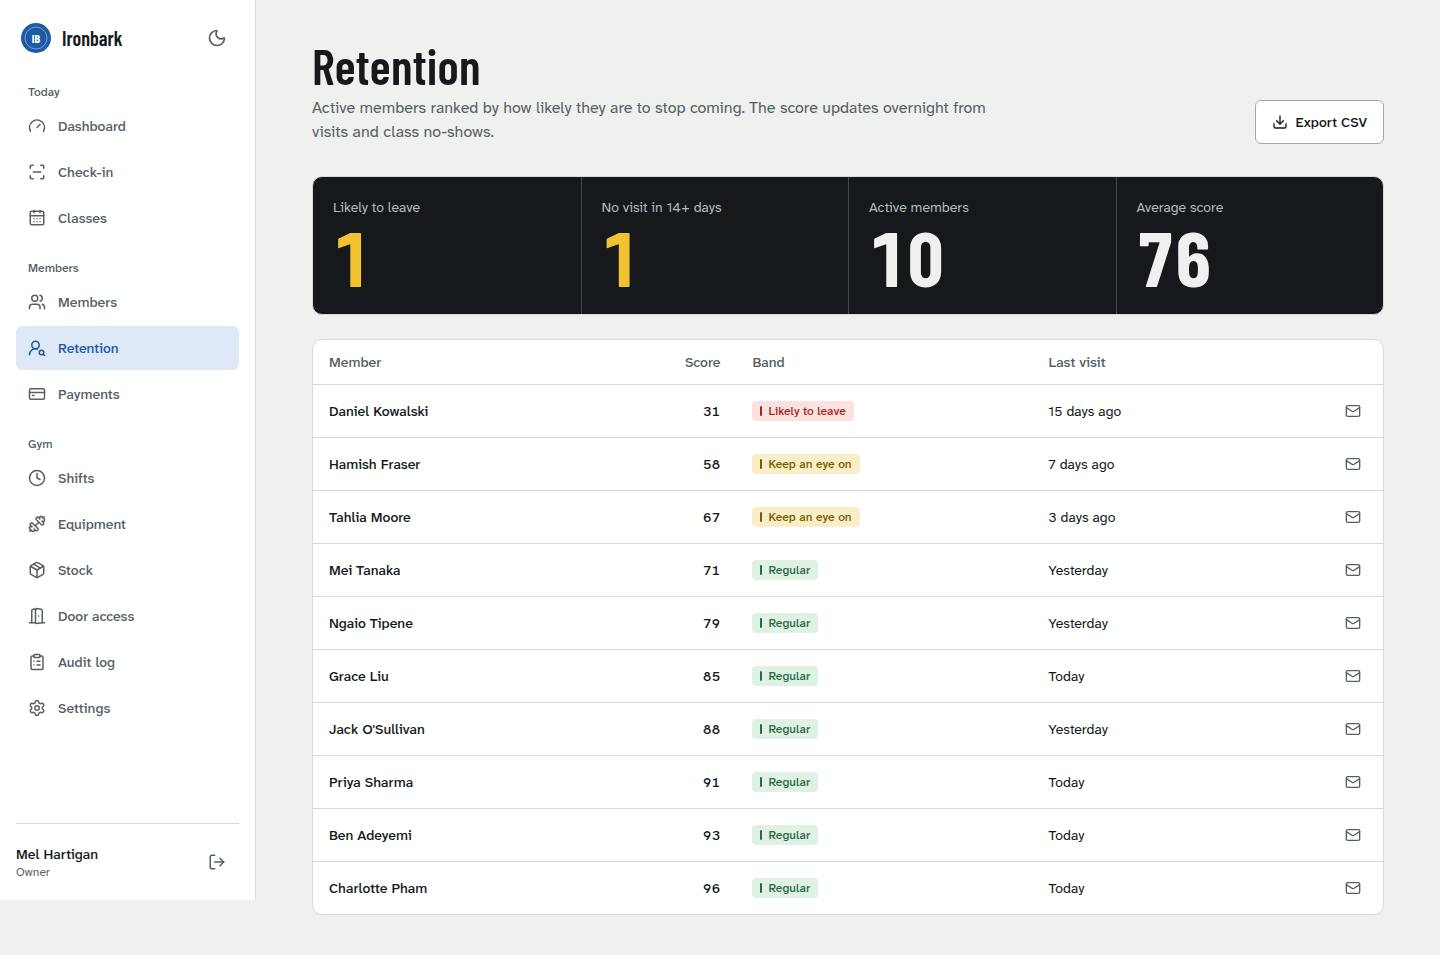
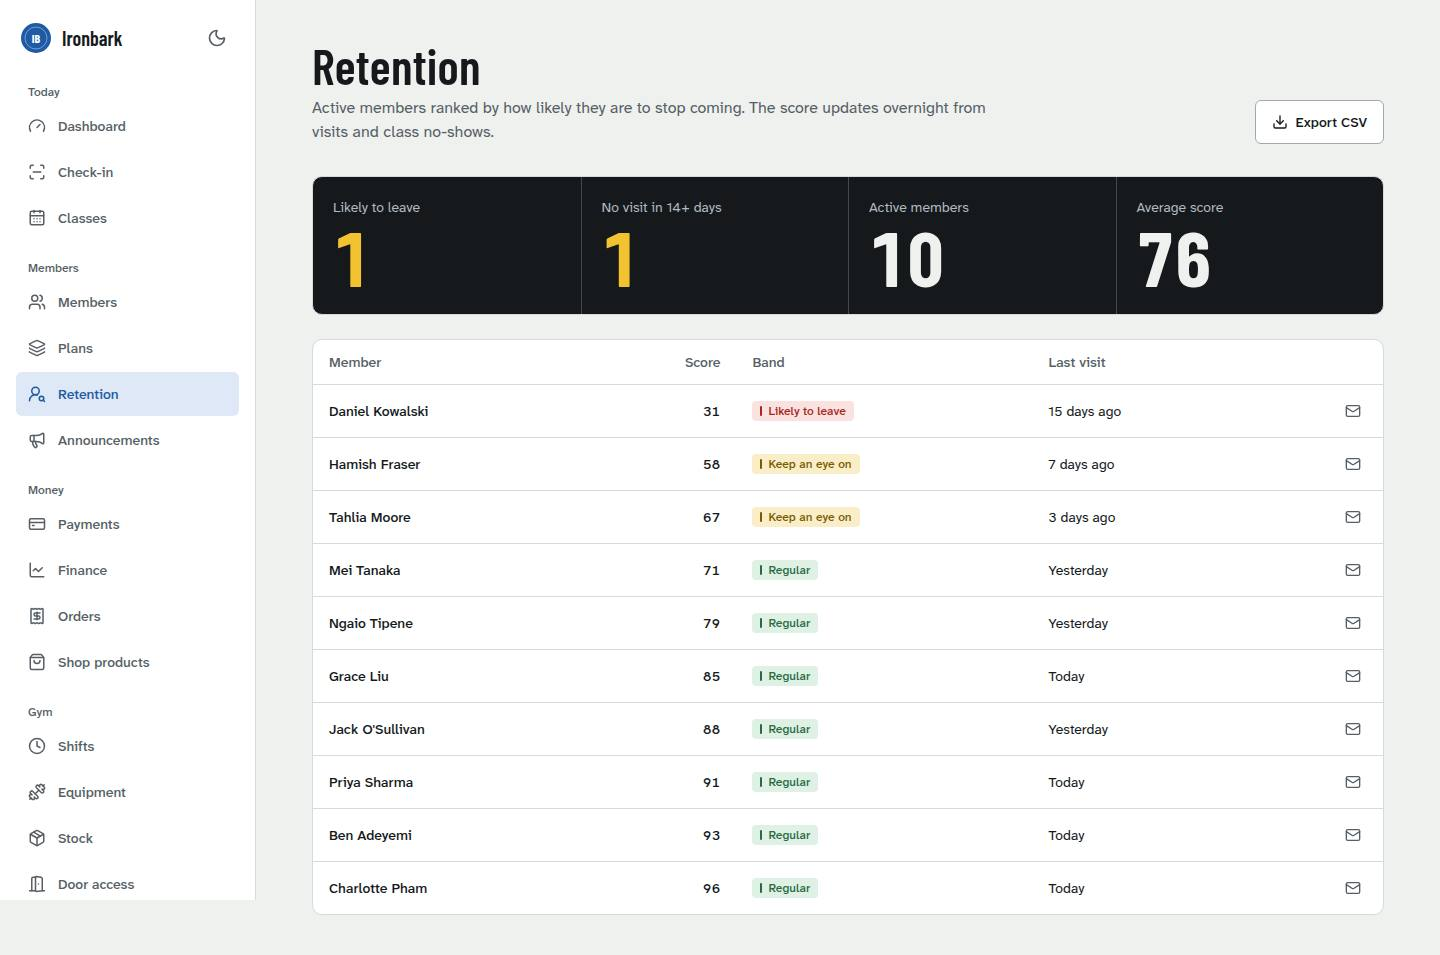
Record Phase 2 decisions, compliance status and screenshots
Claude-Session: https://claude.ai/code/session_01Dvi4xHGvX8cd9Dv8hp5sHE

diff --git a/docs/DECISIONS.md b/docs/DECISIONS.md
@@ -93,3 +93,45 @@ Decisions made while building GymOS without stopping to ask, with the reason and
 **D-038. The mobile menu behaviour is kept.** (PR 1) Same top bar, same left drawer, backdrop still closes it. Added: focus moves into the drawer and is trapped, Escape closes it, focus returns to the menu button, the page behind doesn't scroll, and the nav only renders links the role can use.
 
 **D-039. The dark theme follows the device until the person chooses.** (PR 1) A small inline script sets the theme before first paint, so there's no flash of the wrong theme.
+
+## Phase 2: owner features
+
+**D-040. Plan benefits live in the database, seeded from config.** (PR 2) Class credits, guest passes, shop discount and the casual guest rate are columns on `MembershipPlan`. Config supplies the starting values for new plans only; once a plan exists, the owner edits it in the app and config never overwrites it. A plan that has members is archived, not deleted.
+
+**D-041. Benefits are a ledger, not a counter.** (PR 2) Each grant, use, return or manual adjustment is a `BenefitLedger` row tied to a billing cycle, and the balance is the sum for the current cycle. That gives the owner a history ("who gave Jack two extra credits and why") and makes a rollover or reversal a new row rather than an edit. Unused credits don't roll over.
+
+**D-042. A member's billing cycle comes from Stripe when there is a subscription, and otherwise rolls from the join date.** (PR 2) Webhooks store the subscription's current period. Members paid in cash or set up by staff get a rolling cycle on the plan's interval.
+
+**D-043. Plan changes follow `policies.planChanges`.** (PR 2) Upgrades either charge the prorated difference now or wait for the next cycle; downgrades apply now or at the next cycle (default). Proration is by remaining time in the cycle, rounded to the cent, never negative (a downgrade doesn't produce an automatic credit; staff can refund if they choose).
+
+**D-044. Cancellation respects cooling-off, notice and minimum term from config.** (PR 2) Within the cooling-off period a cancellation is immediate. Otherwise the end date is the later of the notice period and the end of the minimum term. Staff can override with a reason, which is logged. Nothing in the app says "no refunds" (see C-08).
+
+**D-045. Pauses are validated against `policies.pause`.** (PR 2) Minimum and maximum length, no start in the past, and a limit per 12 months. A daily job applies pause starts, resumes, scheduled cancellations and pending downgrades, so state doesn't depend on someone opening a page.
+
+**D-046. Failed payments get a grace period and owner-set reminders.** (PR 2) `pastDueSince` marks the start of an episode. Reminders go out on the days in `failedPayments.reminderDays`, at most once per day and per episode. Door and front-desk check-in keep working until `suspendAccessAfterDays` has passed. Staff can retry the failed invoice through Stripe.
+
+**D-047. Refunds record GST pro rata and can't exceed what's left.** (PR 2) A partial refund carries the same share of the payment's GST. Stripe refunds use an idempotency key built from the payment, the amount already refunded and the amount, so a double-click can't refund twice; the update is guarded on the refunded total so concurrent refunds can't over-refund. Manual refunds (cash, bank transfer) are recorded without calling Stripe. `charge.refunded` webhooks reconcile refunds made in the Stripe dashboard.
+
+**D-048. Tax invoice numbers are sequential database numbers.** (PR 2) An auto-increment column gives each payment a unique, gap-tolerant invoice number. The page shows the business's ABN, the GST amount and the title "Tax invoice" when `gstRegistered` is true; otherwise it is a "Receipt" with no GST. The buyer's name and email are always shown, which covers the extra requirement for sales of $1,000 or more.
+
+**D-049. Finance reports only add up AUD, and use Australian periods.** (PR 2) Payments in any other currency are counted separately and shown as excluded, not converted. Periods offered: this month, BAS quarters (July to September and so on) and the financial year (1 July to 30 June), in the gym's time zone. Revenue is net of refunds; GST collected is net of refunded GST.
+
+**D-050. CSV exports neutralise spreadsheet formulas.** (PR 2) Any cell starting with `=`, `+`, `-`, `@`, tab or carriage return gets a leading apostrophe, so a member called `=HYPERLINK(...)` can't run a formula in the owner's spreadsheet.
+
+**D-051. Shop orders follow a fixed set of transitions.** (PR 2) Pending, paid, ready for pickup or shipped, then collected or delivered. Stock is committed when an order is paid and returned when an unpaid order is cancelled. A paid order can't be cancelled from the order screen; the owner refunds the payment, which marks the order refunded and returns the stock. This keeps the money and the order in step.
+
+**D-052. Supplement products show a guideline note and carry no app-written claims.** (PR 2) The product editor shows a note about TGA and Food Standards Code rules for supplement categories and warns (without blocking) when a description contains words like "cure", "treat" or "clinically proven". The owner writes every word of the description.
+
+**D-053. Timetables are templates that generate classes.** (PR 2) A weekly template (day, time, length, capacity, trainer) generates real classes two weeks ahead. Generation is idempotent through a unique key on template and start time, so the daily job can run it every day. Editing a template doesn't change classes already generated; staff edit those individually.
+
+**D-054. QR passes are signed tokens with a version.** (PR 2) A pass is `GYM1.` plus a signed token holding the member ID and a `qrVersion`. Reissuing a pass bumps the version, so a screenshot of an old pass stops working. The front desk scans with the browser's `BarcodeDetector` where available and can always type or paste the code.
+
+**D-055. Staff roles are fixed, with one owner setting.** (PR 2) Owner, manager, front desk and trainer, with the permission map shown read-only in Settings. Custom roles would add a permissions editor the owner has to get right; four roles cover a small gym. Revenue visibility for front desk is a config switch.
+
+**D-056. The audit log is filterable and exportable, and records who, what and when.** (PR 2) Every change to members, plans, payments, refunds, products, orders, staff and announcements is logged with the actor's name kept in the row, so the record survives staff being removed.
+
+**D-057. Announcements email only members who opted in, and only once.** (PR 2) Members choose whether to receive announcement emails (`notifyAnnouncements`, default on for existing members). Publishing can send an email; a re-publish doesn't re-send unless the owner asks. Audience can be everyone, active members or a plan.
+
+**D-058. Email goes through Resend's HTTP API and does nothing without a key.** (PR 2) No SDK dependency. Without `RESEND_API_KEY` sends are logged as skipped; tests capture messages instead of sending.
+
+**D-059. All daily jobs run from the existing cron route.** (PR 2) `/api/cron/churn-shield` already had a Vercel cron entry and a secret. It now runs transitions, reminders, timetable generation, retention scoring and rate-limit clean-up. Renaming the route would mean changing the deployment's cron config, which this work doesn't touch.

diff --git a/docs/COMPLIANCE-NOTES.md b/docs/COMPLIANCE-NOTES.md
@@ -11,15 +11,15 @@ Status key: **Built** means the app enforces or supports it. **Hook** means ther
 | C-01 | Prices shown to members include GST (ACCC component-pricing guidance: show the total price). | Built (PR 1): public plan prices say "Prices include GST." |
 | C-02 | GST in an inclusive price is 1/11, rounded to the nearest cent, worked out per transaction. | Built (PR 1): `lib/money.ts`, unit-tested. |
 | C-03 | The gym is registered for GST. If not, set `business.gstRegistered: false` and GST becomes 0; invoices must then not be called tax invoices. | Hook |
-| C-04 | A tax invoice for a sale under $1,000 needs: the words "tax invoice", the seller's identity and ABN, date, description, GST amount (or that the total includes GST), and the total. Sales of $1,000 or more also need the buyer's identity or ABN. | Hook (PR 1: ABN validated in config and stored GST per payment). Invoice documents are PR 2. |
+| C-04 | A tax invoice for a sale under $1,000 needs: the words "tax invoice", the seller's identity and ABN, date, description, GST amount (or that the total includes GST), and the total. Sales of $1,000 or more also need the buyer's identity or ABN. | Built (PR 2): printable invoice per payment with ABN, GST, sequential number and the buyer's name; a "Receipt" with no GST if the gym isn't registered. |
 | C-05 | Financial records are kept at least five years (ATO). Config default is seven; the schema refuses fewer than five. Archiving a member keeps their payments. | Built (PR 1) |
-| C-06 | Finance exports are labelled as summaries, not tax advice, and should be checked by an accountant before lodging a BAS. | Built (PR 1): payments export says so. Full GST summary is PR 2. |
+| C-06 | Finance exports are labelled as summaries, not tax advice, and should be checked by an accountant before lodging a BAS. | Built (PR 1 and 2): finance page and exports show GST collected net of refunds by month, BAS quarter and financial year, labelled as a summary for an accountant to check. |
 
 ## Australian Consumer Law: memberships, cancellation, refunds
 
 | # | Assumption | Status |
 | --- | --- | --- |
-| C-07 | Cancellation and refund rules are the owner's, set in `policies.cancellation` and `policies.shop` in config, not hard-coded. | Built (PR 1 config; PR 2 and 3 enforce them). |
+| C-07 | Cancellation and refund rules are the owner's, set in `policies.cancellation` and `policies.shop` in config, not hard-coded. | Built (PR 1 config; PR 2 enforces cancellation, pause and plan-change rules for staff; PR 3 for members). |
 | C-08 | Consumer guarantees can't be excluded. Terms must not say "no refunds"; a member is entitled to a remedy if a service isn't provided with due care or isn't fit for purpose, whatever the gym's change-of-mind policy says. | Owner (the template terms in PR 3 will say this). |
 | C-09 | Some states regulate fitness memberships directly, for example NSW's Fitness Services (Pre-paid Fees) legislation, which includes a cooling-off period and limits on pre-payment. Config has `coolingOffDays` (default 7) and `minimumTermWeeks`. The right values depend on the state and the contract. | Hook. Owner must confirm with a lawyer. |
 | C-10 | Unfair contract terms law applies to standard-form consumer contracts, including gym memberships (with penalties since November 2023). Membership terms need legal review. | Owner |
@@ -46,8 +46,8 @@ Small businesses under $3 million turnover are often exempt from the Privacy Act
 
 | # | Assumption | Status |
 | --- | --- | --- |
-| C-22 | GymOS never writes health, performance or therapeutic claims. Product descriptions are entered by the owner. | Built in PR 2 with the shop. |
-| C-23 | Some supplements are regulated by the TGA (for example, as listed medicines or sports supplements with therapeutic claims), and food-type supplements fall under the Food Standards Code. Selling them and describing them can be regulated. The owner needs their own advice. The shop admin will show a guideline note. | PR 2 (note); Owner (advice) |
+| C-22 | GymOS never writes health, performance or therapeutic claims. Product descriptions are entered by the owner. | Built (PR 2): descriptions are owner-entered; the editor warns on claim-like words. |
+| C-23 | Some supplements are regulated by the TGA (for example, as listed medicines or sports supplements with therapeutic claims), and food-type supplements fall under the Food Standards Code. Selling them and describing them can be regulated. The owner needs their own advice. The shop admin will show a guideline note. | Built (PR 2: guideline note on supplement products); Owner (advice) |
 | C-24 | Advertising claims must not be misleading (ACL). | Owner |
 
 ## Other
@@ -55,5 +55,5 @@ Small businesses under $3 million turnover are often exempt from the Privacy Act
 | # | Assumption | Status |
 | --- | --- | --- |
 | C-25 | Accessibility: the main flows have zero axe violations (WCAG 2.1 A and AA rules) at 375px and 1440px. This isn't a full WCAG audit. | Built (PR 1, tested in CI) |
-| C-26 | Spam Act 2003: marketing emails need consent and an unsubscribe. Transactional emails (receipts, booking confirmations) don't. Announcements in PR 2 respect notification preferences. | PR 2 and 3 |
+| C-26 | Spam Act 2003: marketing emails need consent and an unsubscribe. Transactional emails (receipts, booking confirmations) don't. Announcements in PR 2 respect notification preferences. | Built (PR 2): announcement emails only go to members with announcements switched on. PR 3 adds the member-facing preference and unsubscribe. |
 | C-27 | Staff passwords and member passwords are hashed with scrypt; no one, including the owner, can read them. | Built |

diff --git a/README.md b/README.md
@@ -46,6 +46,12 @@ STRIPE_WEBHOOK_SECRET=whsec_...      # from `stripe listen --forward-to localhos
 
 Live keys are refused at startup unless `STRIPE_ALLOW_LIVE_KEYS=true`.
 
+Webhook events the app handles: `checkout.session.completed`, `customer.subscription.updated` and `.deleted`, `invoice.paid`, `invoice.payment_succeeded`, `invoice.payment_failed` and `charge.refunded`.
+
+### Email (optional)
+
+Set `RESEND_API_KEY` and `EMAIL_FROM` to send payment reminders, waitlist and announcement emails through Resend. Without a key, emails are skipped and logged.
+
 ## Checks
 
 ```bash
@@ -65,7 +71,7 @@ CI (`.github/workflows/ci.yml`) runs all of the above on every pull request.
 
 On Vercel, `vercel.json` sets the build command to `npm run vercel-build`, which applies migrations (`prisma migrate deploy`) before building. Plain `npm run build` never runs migrations, so a local build can't change a database by accident. Migrations are additive; each has a `down.sql` beside it for rollback.
 
-Set the environment variables from `.env.example` in the hosting provider. `CRON_SECRET` enables the nightly retention job; `IOT_GATEWAY_SECRET` enables door scanners. Both endpoints refuse every request until their secret is set.
+Set the environment variables from `.env.example` in the hosting provider. `CRON_SECRET` enables the daily job (plan changes, pauses and cancellations falling due, payment reminders, timetable generation and retention scores); `IOT_GATEWAY_SECRET` enables door scanners. Both endpoints refuse every request until their secret is set.
 
 ## Adopting GymOS for a new gym
 
